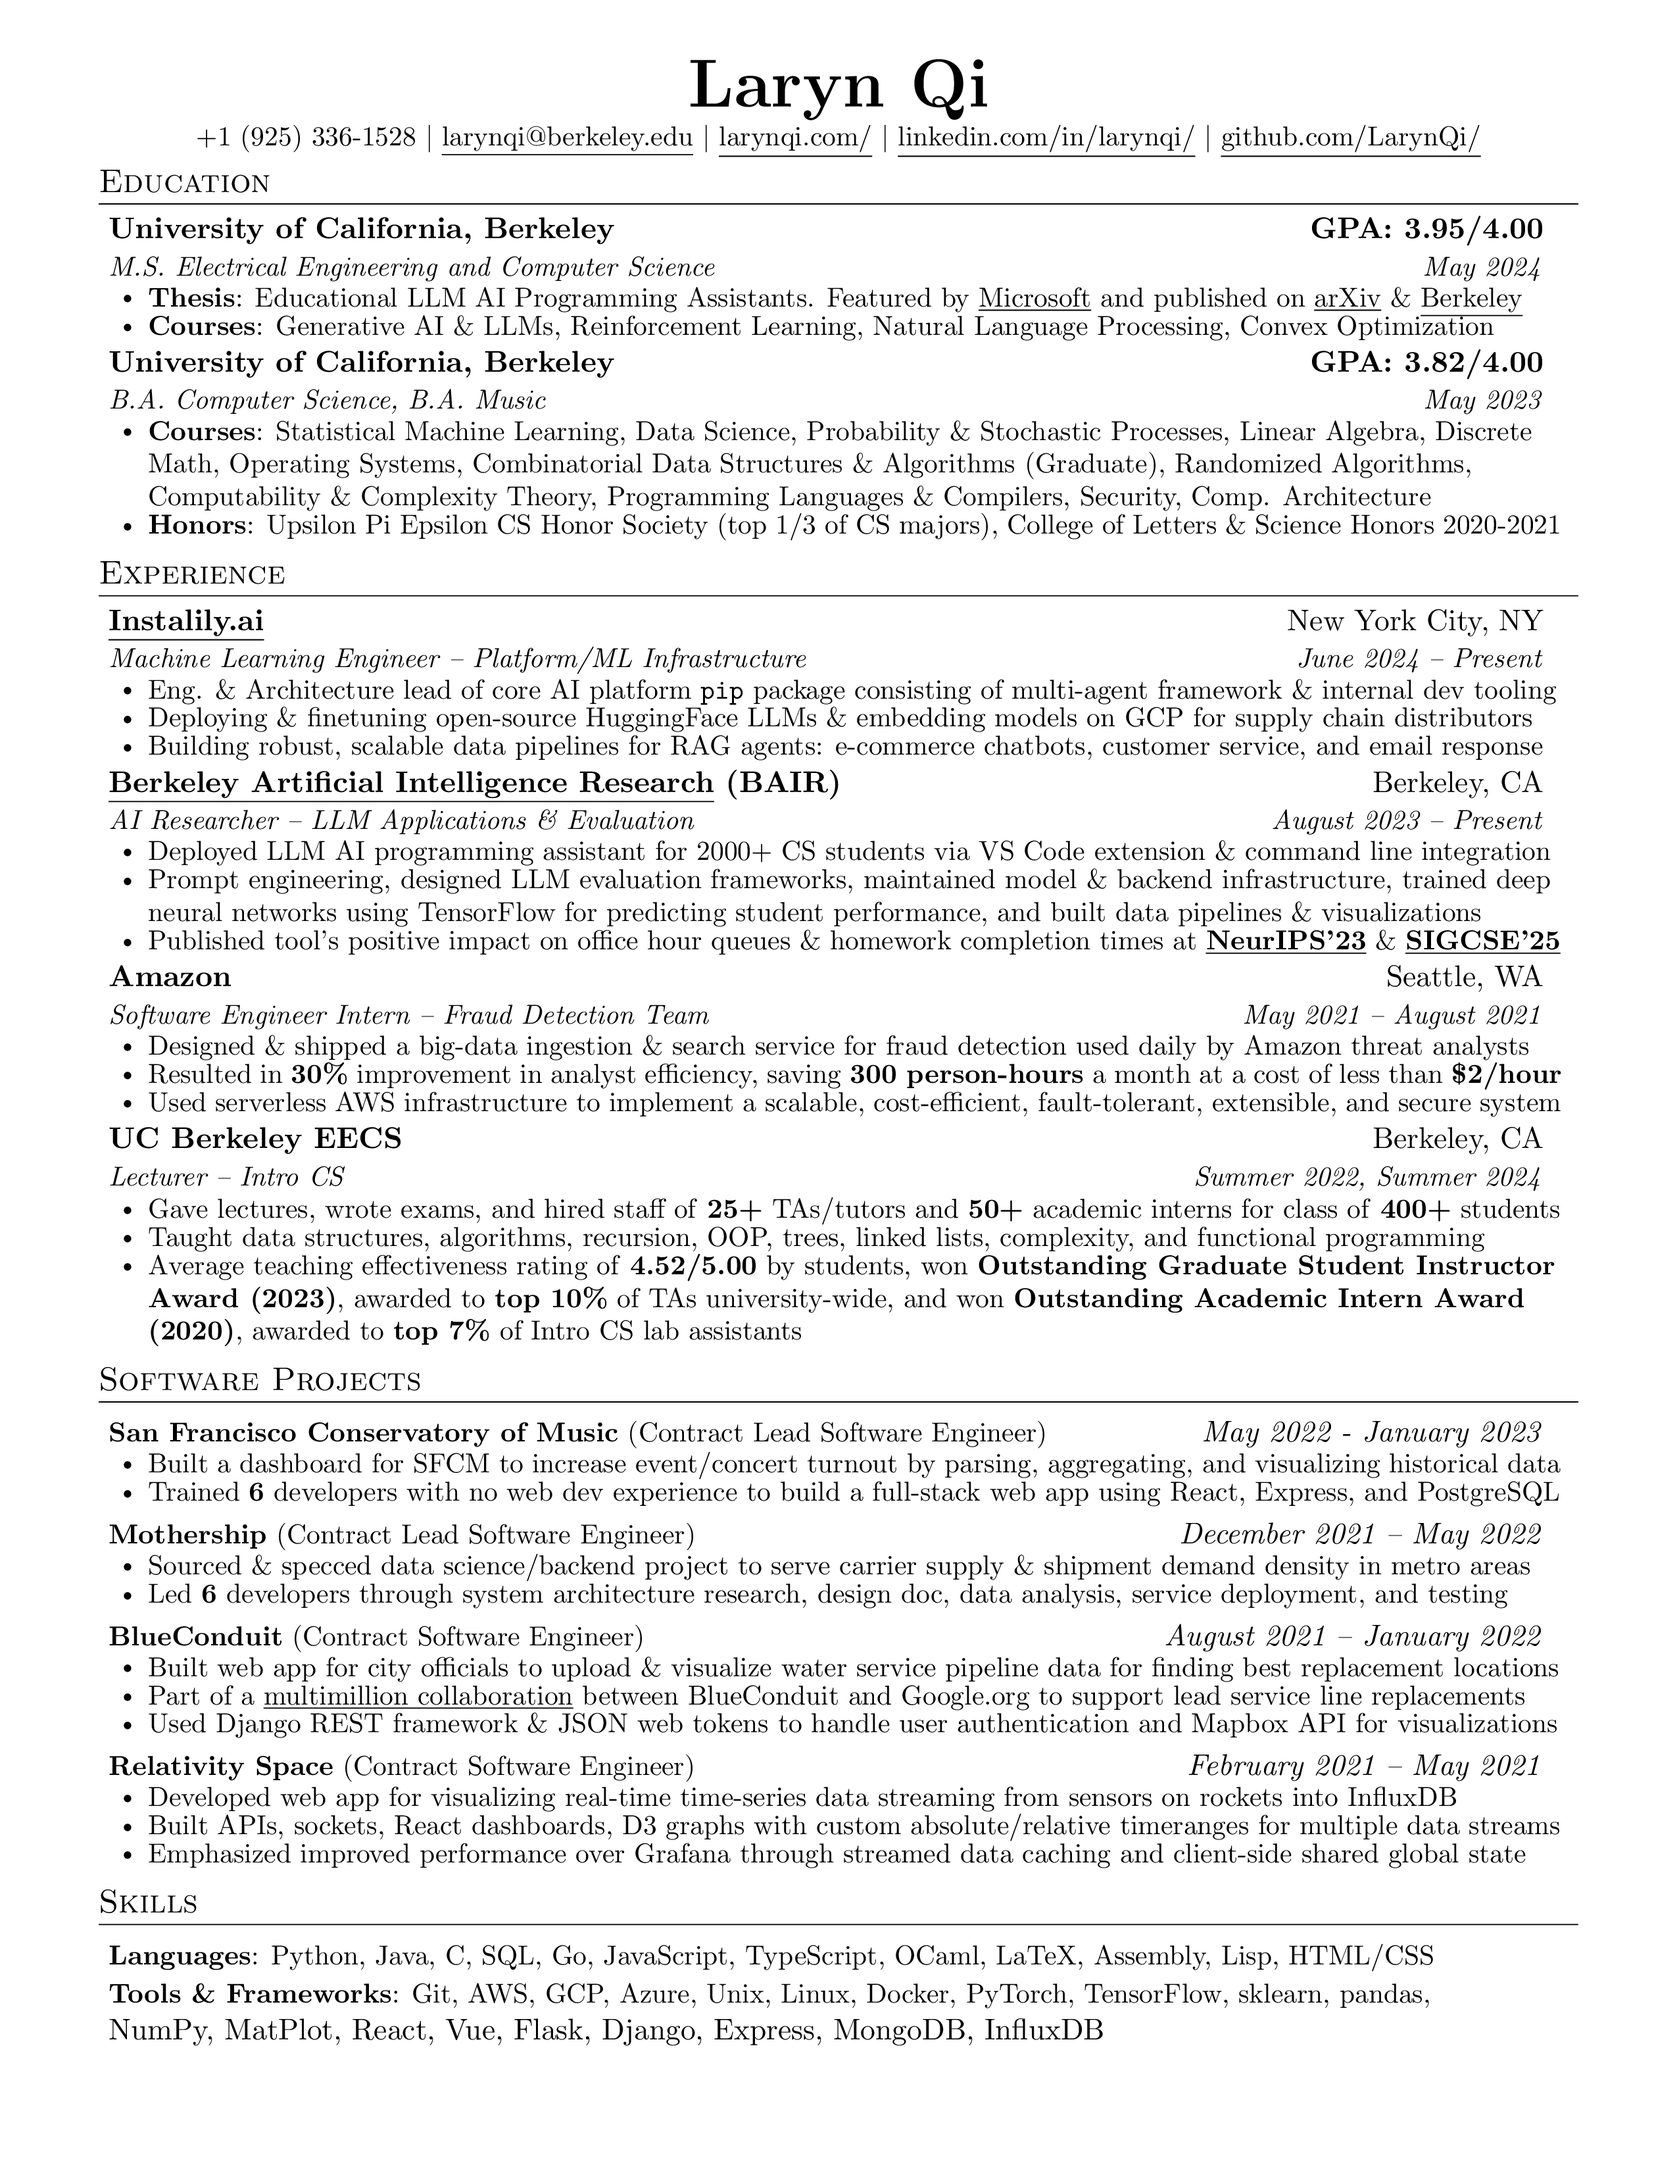
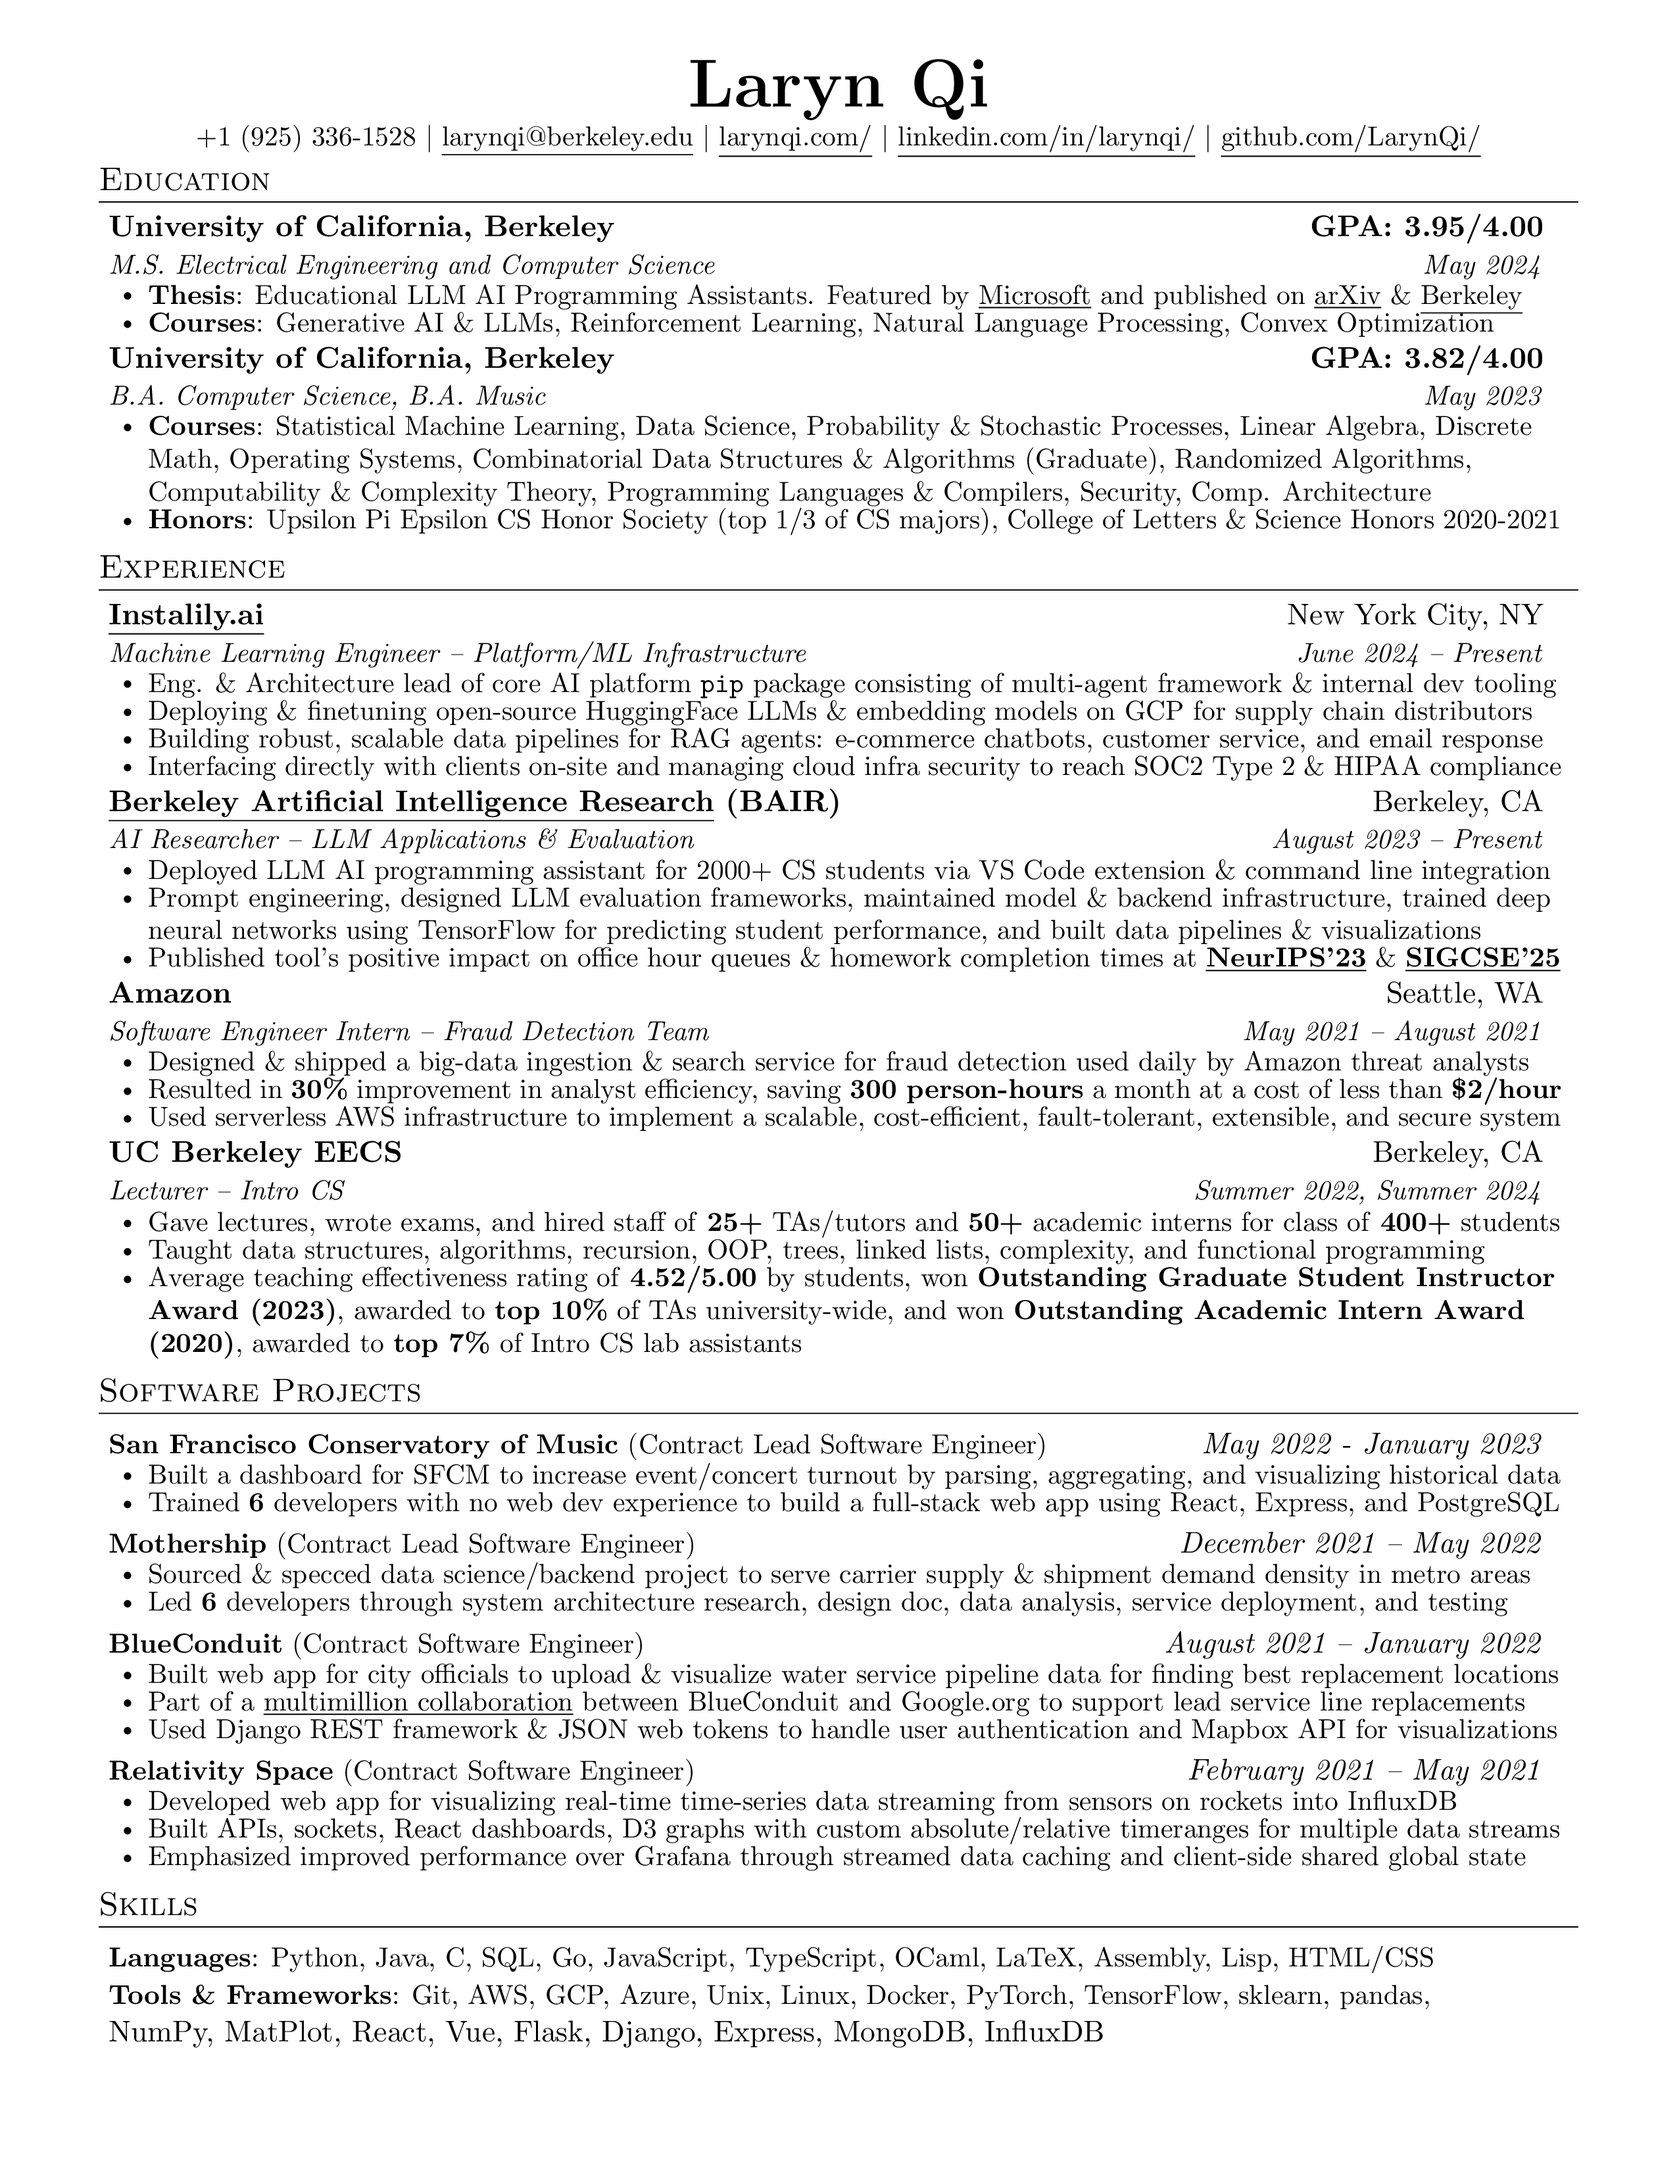
1.27.25

Changed region(s): [[0.062, 0.0624, 0.9294, 0.9364]]

diff --git a/main.tex b/main.tex
@@ -153,6 +153,7 @@
         \resumeItem{Eng. \& Architecture lead of core AI platform \texttt{pip} package consisting of multi-agent framework \& internal dev tooling}
         \resumeItem{Deploying \& finetuning open-source HuggingFace LLMs \& embedding models on GCP for supply chain distributors}
         \resumeItem{Building robust, scalable data pipelines for RAG agents: e-commerce chatbots, customer service, and email response}
+        \resumeItem{Interfacing directly with clients on-site and managing cloud infra security to reach SOC2 Type 2 \& HIPAA compliance}
     \resumeItemListEnd
 
 \resumeSubheading
